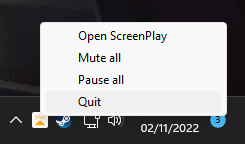
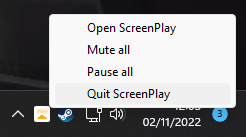
Always use "quit" to close screenplay and not minimize

diff --git a/ScreenPlay/qml/Navigation/ExitPopup.qml b/ScreenPlay/qml/Navigation/ExitPopup.qml
@@ -27,7 +27,7 @@ Util.Popup {
             spacing: 20
 
             Text {
-                text: qsTr("You have active Wallpaper. ScreenPlay will keep running in the background.")
+                text: qsTr("You have active Wallpaper.\nScreenPlay will only quit if no Wallpaper are running.")
                 Layout.fillWidth: true
                 Layout.fillHeight: true
                 wrapMode: Text.WrapAtWordBoundaryOrAnywhere
@@ -46,10 +46,10 @@ Util.Popup {
             Text {
                 text: {
                     if (Qt.platform.os === "windows") {
-                        return qsTr("You can <b>exit</b> ScreenPlay via the bottom right Tray-Icon.")
+                        return qsTr("You can <b>quit</b> ScreenPlay via the bottom right Tray-Icon.")
                     }
                     if (Qt.platform.os === "osx") {
-                        return qsTr("You can <b>exit</b> ScreenPlay via the top right Tray-Icon.")
+                        return qsTr("You can <b>quit</b> ScreenPlay via the top right Tray-Icon.")
                     }
                 }
 
@@ -69,7 +69,7 @@ Util.Popup {
                 Layout.alignment: Qt.AlignHCenter
                 Layout.fillWidth: true
                 Button {
-                    text: qsTr("Exit ScreenPlay now")
+                    text: qsTr("Quit ScreenPlay now")
                     onClicked: Qt.quit()
                 }
                 Button {

diff --git a/ScreenPlayUtil/qml/TrayIcon.qml b/ScreenPlayUtil/qml/TrayIcon.qml
@@ -78,7 +78,7 @@ SystemTrayIcon {
         }
 
         MenuItem {
-            text: qsTr("Quit")
+            text: qsTr("Quit ScreenPlay")
             onTriggered: App.exit()
         }
     }
